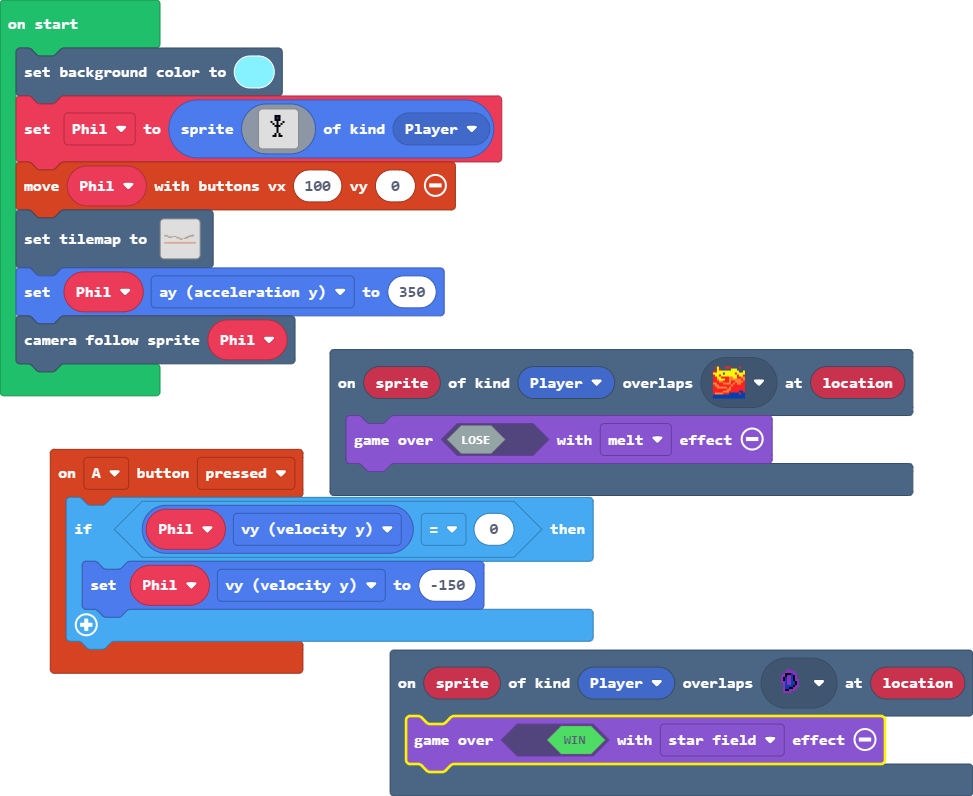
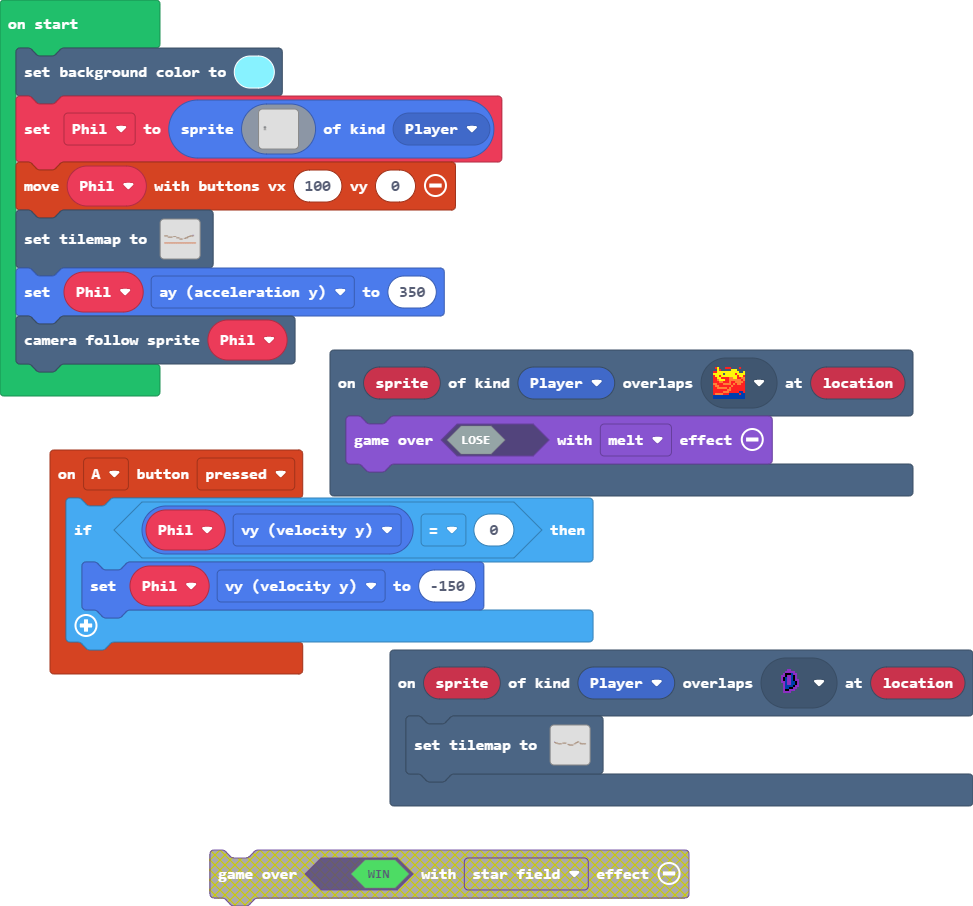
fd

diff --git a/main.ts b/main.ts
@@ -2,7 +2,7 @@ scene.onOverlapTile(SpriteKind.Player, assets.tile`myTile0`, function (sprite, l
     game.over(false, effects.melt)
 })
 scene.onOverlapTile(SpriteKind.Player, assets.tile`myTile1`, function (sprite, location) {
-    game.over(true, effects.starField)
+    tiles.setTilemap(tilemap`level2`)
 })
 controller.A.onEvent(ControllerButtonEvent.Pressed, function () {
     if (Phil.vy == 0) {
@@ -12,22 +12,22 @@ controller.A.onEvent(ControllerButtonEvent.Pressed, function () {
 let Phil: Sprite = null
 scene.setBackgroundColor(9)
 Phil = sprites.create(img`
-    . . . . . . . . . . . . . . . . 
-    . . . . . . f f f . . . . . . . 
-    . . . . . . f 8 f . . . . . . . 
-    . . . . . . f f f . . . . . . . 
-    . . . . f . . f . . f . . . . . 
-    . . . . . f . f . f . . . . . . 
-    . . . . . . f f f . . . . . . . 
-    . . . . . . . f . . . . . . . . 
-    . . . . . . . f . . . . . . . . 
-    . . . . . . . f . . . . . . . . 
-    . . . . . . f . f . . . . . . . 
-    . . . . . f f . f f . . . . . . 
-    . . . . . . . . . . . . . . . . 
-    . . . . . . . . . . . . . . . . 
-    . . . . . . . . . . . . . . . . 
-    . . . . . . . . . . . . . . . . 
+    ....................................................................................................
+    ......fff...........................................................................................
+    ......f8f...........................................................................................
+    ......fff...........................................................................................
+    ....f..f..f.........................................................................................
+    .....f.f.f..........................................................................................
+    ......fff...........................................................................................
+    .......f............................................................................................
+    .......f............................................................................................
+    .......f............................................................................................
+    ......f.f...........................................................................................
+    .....ff.ff..........................................................................................
+    ....................................................................................................
+    ....................................................................................................
+    ....................................................................................................
+    ....................................................................................................
     `, SpriteKind.Player)
 controller.moveSprite(Phil, 100, 0)
 tiles.setTilemap(tilemap`level1`)

diff --git a/tilemap.g.ts b/tilemap.g.ts
@@ -30,6 +30,25 @@ namespace myTiles {
 ..................................................
 ..................................................
 `, [myTiles.transparency16,myTiles.tile1,myTiles.tile2,myTiles.tile3], TileScale.Sixteen);
+            case "level2":
+            case "level2":return tiles.createTilemap(hex`320010000000000000000000000000000000000000000000000000000000000000000000000000000000000000000000000000000000000000000000000000000000000000000000000000000000000000000000000000000000000000000000000000000000000000000000000000000000000000000000000000000000000000000000000000000000000000000000000000000000000000000000000000000000000000000000000000000000000000000000000000000000000000000000000000000000000000000000020000000000000000000000000000000000000000000000000000000000000000000000010101000000000000000000000001010100000000000000000000000000000000000000000000000000000000000000010101000000000000000000000000000000010101010000000000000001010101010100000000000000000000000000000101000000000001010000000000000000000000000000010101010101000000000000000000000000000000000000000101000000000000000001010101010101010100000000000000000000000000000000000000000001010100000000000000000000000000000000000000000000000000000000000000000000000000000000000000000000000000010101010101010000000000000000000000000000000000000000000000000000000000000000000000000000000000000000000000000000000000000000000000000000000000000000000000000000000000000000000000000000000000000000000000000000000000000000000000000000000000000000000000000000000000000000000000000000000000000000000000000000000000000000000000000000000000000000000000000000000000000000000000000000000000000000000000000000000000000000000000000000000000000000000000000000000000000000000000000000000000000000000000000000000000000000000000000000000000000000000000000000000000000000000000000000000000000000000000000000000000000000000000000000000000000000000000000000000000000000`, img`
+..................................................
+..................................................
+..................................................
+..................................................
+....................................222...........
+222...............................222.............
+..2222.......222222..............22.....22........
+......222222...................22........222222222
+.....................222..........................
+.......................2222222....................
+..................................................
+..................................................
+..................................................
+..................................................
+..................................................
+..................................................
+`, [myTiles.transparency16,myTiles.tile1,myTiles.tile3], TileScale.Sixteen);
         }
         return null;
     })
